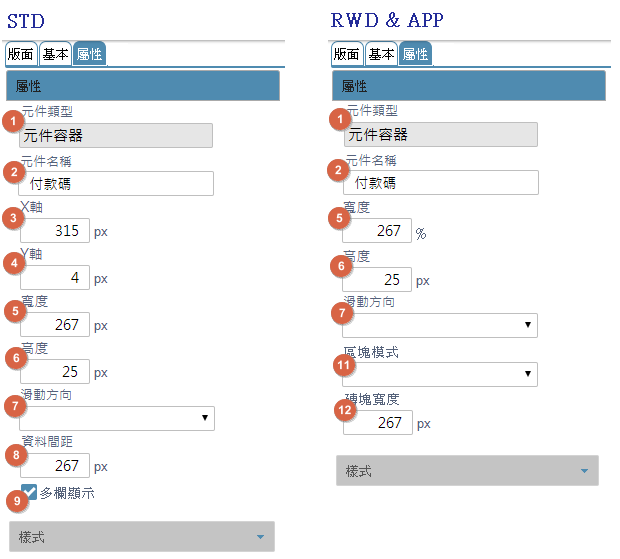
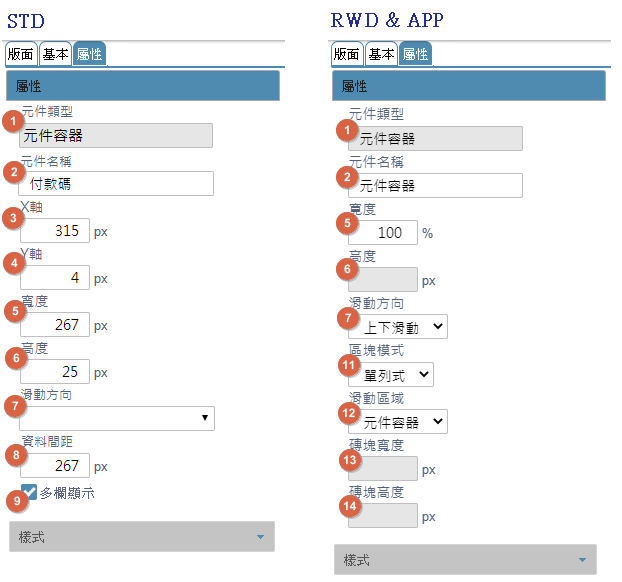
9068 元件容器新增屬性-滑動區域/IDE

diff --git a/8.10.2/IDE/Specification/FormDesign/WidgetBaseProperty_wCtnr.md b/8.10.2/IDE/Specification/FormDesign/WidgetBaseProperty_wCtnr.md
@@ -35,7 +35,7 @@
     * 用途說明
     * 規格說明 
         * 參照 [元件寬高異動通則][link_width_and_height]
-        * 若設計類型=APP、RWD, 且元件類型=wCtnr.容器元件, 且`(3)變動高度`=勾選, 則 除能, 否則 致能
+        * 若設計類型=APP、RWD, 且元件類型=wCtnr.容器元件, 且[樣式欄位說明][link_style_object_desc]的`變動高度`=勾選, 則 除能, 否則 致能
 * `(7)滑動方向`
     * 用途說明
     * 規格說明
@@ -52,7 +52,7 @@
     * 規格說明
         * 當設計類型=APP、RWD, 則本欄位隱藏, 否則 顯示
         * checkbox, 系統預設: false
-* `(10)區塊模式`
+* `(11)區塊模式`
     * 用途說明
         * 指容器的每一筆記錄為一資料區塊
     * 規格說明
@@ -61,25 +61,34 @@
         * 系統預設: 單列式
         * 當切換區塊模式=磚塊式時, 異動下列內容:
             * 當`(6)高度`為空時, `(6)高度`=駐留筆容器在畫面上的高度
-            * 當`(11)磚塊寬度`為空時, `(11)磚塊寬度`= 駐留筆容器區塊在畫面上的比率換算成px的值
-            * 當`(12)磚塊高度`為空時, `(12)磚塊高度`= 駐留筆容器區塊在畫面上的高度
+            * 當`(13)磚塊寬度`為空時, `(13)磚塊寬度`= 駐留筆容器區塊在畫面上的比率換算成px的值
+            * 當`(14)磚塊高度`為空時, `(14)磚塊高度`= 駐留筆容器區塊在畫面上的高度
             * [樣式欄位說明][link_style_object_desc]的`變動高度`=未勾選
             * 容器下所有子元件對應的`變動高度`=未勾選, 且欄位除能
         * 當切換區塊模式=單列式時, 異動下列內容:
             * [樣式欄位說明][link_style_object_desc]的`變動高度`=勾選
-* `(11)磚塊寬度`
+* `(12)滑動區域`
+    * 用途說明
+        * 指表單存在單一容器時，手指滑動資料時，受影響的區域範圍
+        * 當區塊模式=單列式且為上下滑動時，可指定滑動區域
+    * 規格說明
+        * 當設計類型=標準, 則 隱藏, 否則 顯示
+        * 當`(11)區塊模式`=單列式，則 致能，否則 除能
+        * 下拉選項: 全螢幕 / 元件容器
+        * 系統預設: 全螢幕        
+* `(13)磚塊寬度`
     * 用途說明
     * 規格說明
         * 當設計類型=標準, 則 隱藏, 否則 顯示
-        * 當`(9)區塊模式`=磚塊式, 則 致能, 否則 除能
-* `(12)磚塊高度`
+        * 當`(11)區塊模式`=磚塊式, 則 致能, 否則 除能
+* `(14)磚塊高度`
     * 用途說明
     * 規格說明
         * 當設計類型=標準, 則 隱藏, 否則 顯示
-        * 當`(9)區塊模式`=磚塊式, 則 致能, 否則 除能
+        * 當`(11)區塊模式`=磚塊式, 則 致能, 否則 除能
         * 若 異動後磚塊高度 > 原磚塊高度, 異動: 區塊內最後一列的高度 = 原列高 + (異動後磚塊高度-原磚塊高度)
         * 若 異動後磚塊高度 > 原磚塊高度, 且區塊內列的總高度 > 磚塊高度, 顯示 垂直捲軸
-        * 若 異動後磚塊高度 > `(5)高度`, 顯示訊息盒【標題: 系統訊息 / 訊息內容: 磚塊高度不得大於容器高度】，系統回復上次修改內容
+        * 若 異動後磚塊高度 > `(6)高度`, 顯示訊息盒【標題: 系統訊息 / 訊息內容: 磚塊高度不得大於容器高度】，系統回復上次修改內容
 
 ## <div id="style-object-desc">樣式欄位說明</div>
 * ![pic][image_wCtnr_style]

diff --git a/8.10.2/IDE/Specification/FormDesign/README.md b/8.10.2/IDE/Specification/FormDesign/README.md
@@ -12,6 +12,22 @@
         * Hint: 駐留及執行順序 
         * 版面為編輯模式, 則 隱藏, 否則 顯示
         * 開啟[駐留順序][link_WidgetOrder], 限定: 同表單料 且 專案語系=主要語系
+* `(2)儲存`
+    * 用途說明: 
+    * 規格說明
+        * 版面為編輯模式, 則 顯示, 否則 隱藏
+        * 瀏覽模式下 1. 版面物件皆無拖拉動作、2. 所有欄位設定皆除能、3.版面區塊 XY軸位置不變、4. 修改編輯狀態為false 【 fnSAEditChange(false); 】
+        * 畫面儲存檢控:
+            * 多筆表格裡必須有子元件
+            * 多筆表格的表格列高=固定，則子元件的元件類型不允存在【圖片(image)、多行文字(textarea)】
+            * 表單版面必須有元件.
+            * 版面區塊存在元件類型【功能按鈕(wTBBtn)、功能選單(wTBMenu)】，標題與圖示，至少存在一個有值
+            * 版面區塊存在元件類型【功能按鍵(欄位資料)(funckey)】，按鍵名稱與圖示，至少存在一個有值
+            * 當表單設計類型=RWD或APP，檢查表單版面，每一列當中至少存在一個元件，否則 顯示訊息盒【標題: 系統訊息 / 訊息內容: 表單版面的每一列當中至少存在一個元件】
+            * 當元件類型存在【頁籤區塊(wTab)、動態面板(wDpanel)、元件容器(wCtnr)、、按鈕選項群組(wRBGroup)】，檢查每一列當中至少存在一個元件，否則 顯示訊息盒【標題: 系統訊息 / 訊息內容: %元件名稱 + '_' + %頁籤or面板名稱，每一列當中至少存在一個元件】
+            * 版面區塊存在元件類型【元件容器(wCtnr)】且 `滑動區域`=元件容器時, 顯示訊息盒【標題: 系統訊息 / 訊息內容: 元件容器的滑動區域不為全螢幕, 則表單內只允存在一個元件容器 】
+        * 執行完成，重載表單版面，並於載入完成後，顯示訊息盒【標題: 系統訊息 / 訊息內容: 儲存完成 若已開啟該表單的規格關聯, 請至規格關聯執行重新整理】，限時: 3秒，系統自動關閉訊息盒
+            * 儲存後，資料須保持版面區塊 XY軸位置不變
 
 ## <div id="main-block-desc">主畫面_版面區塊說明</div>
 

diff --git a/8.10.2/UPDATE/ITEM_10/IDE/README.md b/8.10.2/UPDATE/ITEM_10/IDE/README.md
@@ -2,9 +2,24 @@
 * Prenkt
 
 ### <div id="updatedate">規劃日期</div>
-* 2022/7/27
+* 2022/6/20
 
 ### <div id="trac">TRAC</div>
 * #9068
 
 ### <div id="requirement">需求展開</div>
+* 規格說明
+    * 表單版面設計: 要做到容器外的欄位可以凍結, 只滑動容器內的記錄
+        * 當元件類型=wCtnr.元件容器 且 區塊模式=單列式，屬性設定: 滑動區域，下拉(1.全螢幕 2.元件容器) 致能，否則 除能
+        * 增加版面儲存檢控: 表單若有設定容器為滑動區域=2.元件容器時，表單只允存在一個容器元件
+    * 元件加註-基本設定: 下列條件成立時，引用功能 致能，否則 除能 :  
+        * (類型in(wTBtn.連結框線、wTP.文字標題、wImg.圖片、liteImage.圖片(多筆瀏覽)) 
+        * (類型in(wTF.文字方塊、text.文字方塊(多筆表格)、liteText.文字方塊(多筆瀏覽)、wTA.多行文字) 且 欄位能力.僅供顯示=True 且 撥號功能 = false)) 
+        * (表單設計類型=3.APP 且 元件類型=wCtnr.元件容器) 
+* 文件位置
+    * [表單版面設計][link_FormDesign]
+    * [元件加註-基本設定][link_ObjectAnnotation]
+
+<!-- 超連結 -->
+[link_FormDesign]:{3}/IDE/Specification/FormDesign/README
+[link_ObjectAnnotation]:{3}/IDE/Specification/ObjectAnnotation/README

diff --git a/8.10.2/IDE/Specification/FormDesign/history.md b/8.10.2/IDE/Specification/FormDesign/history.md
@@ -2,18 +2,25 @@
 ===
 | 版本 |
 | :---: |
-| [old](#old) |
+| [8.10.2](#v8_10_2) |
 | [8.10.0](#v8_10_0) |
+| [old](#old) |
 
 ***
+### <a id='v8_10_2'></a>8.10.2
+* Changed Prenkt 2022-06-20: MAE_容器元件建議功能 ([Trac#9068])
 
 ### <a id='v8_10_0'></a>8.10.0
 * Added Prenkt 2021-05-05: IDE_因應MAE擴充推播功能相關擴充 ([Trac#8193])
 * Changed Prenkt 2022-03-23: 開放APP表單也可以設定駐留及執行順序, 來源:([Trac#8972])
+
  
+
+
 <!-- 圖片 -->
 
 
 <!-- 超連結 -->
-[Trac#8193]:http://trac.uneec.com/trac/neco/ticket/8193 "#8193"
-[Trac#8972]:http://trac.uneec.com/trac/neco/ticket/8972 "#8972"
+[Trac#8193]:http://trac.arcare.com.tw/trac/neco/ticket/8193 "#8193"
+[Trac#8972]:http:/trac.arcare.com.tw/trac/neco/ticket/8972 "#8972"
+[Trac#9068]:http://trac.arcare.com.tw/trac/neco/ticket/9068 "#9068"

diff --git a/8.10.2/UPDATE/ITEM_10/IDE/history.md b/8.10.2/UPDATE/ITEM_10/IDE/history.md
@@ -3,17 +3,17 @@
 | 版本 |
 | :---: |
 | [old](#old) |
-| [8.10.0](#v8_10_0) |
+| [8.10.2](#v8_10_0) |
 
 ***
 
-### <a id='v8_10_0'></a>8.10.0
-* Added Prenkt 2021-05-05: IDE_因應MAE擴充推播功能相關擴充 ([Trac#8193])
+### <a id='v8_10_0'></a>8.10.2
+* Added Prenkt 2022-06-20: MAE_容器元件建議功能 ([Trac#9068])
 
  
 <!-- 圖片 -->
 
 
 <!-- 超連結 -->
-[Trac#8193]:http://trac.uneec.com/trac/neco/ticket/8193 "#8193"
+[Trac#9068]:http://trac.arcare.com.tw/trac/neco/ticket/9068 "#9068"
 

diff --git a/8.10.2/UPDATE/ITEM_10/IDE/_sidebar.md b/8.10.2/UPDATE/ITEM_10/IDE/_sidebar.md
@@ -1,4 +1,4 @@
-# 表單版面設計
+# 元件容器新增屬性-滑動區域/IDE
 * [上一頁](../../README.md)
 * [規劃人員](README.md#user)
 * [規劃日期](README.md#updatedate)
